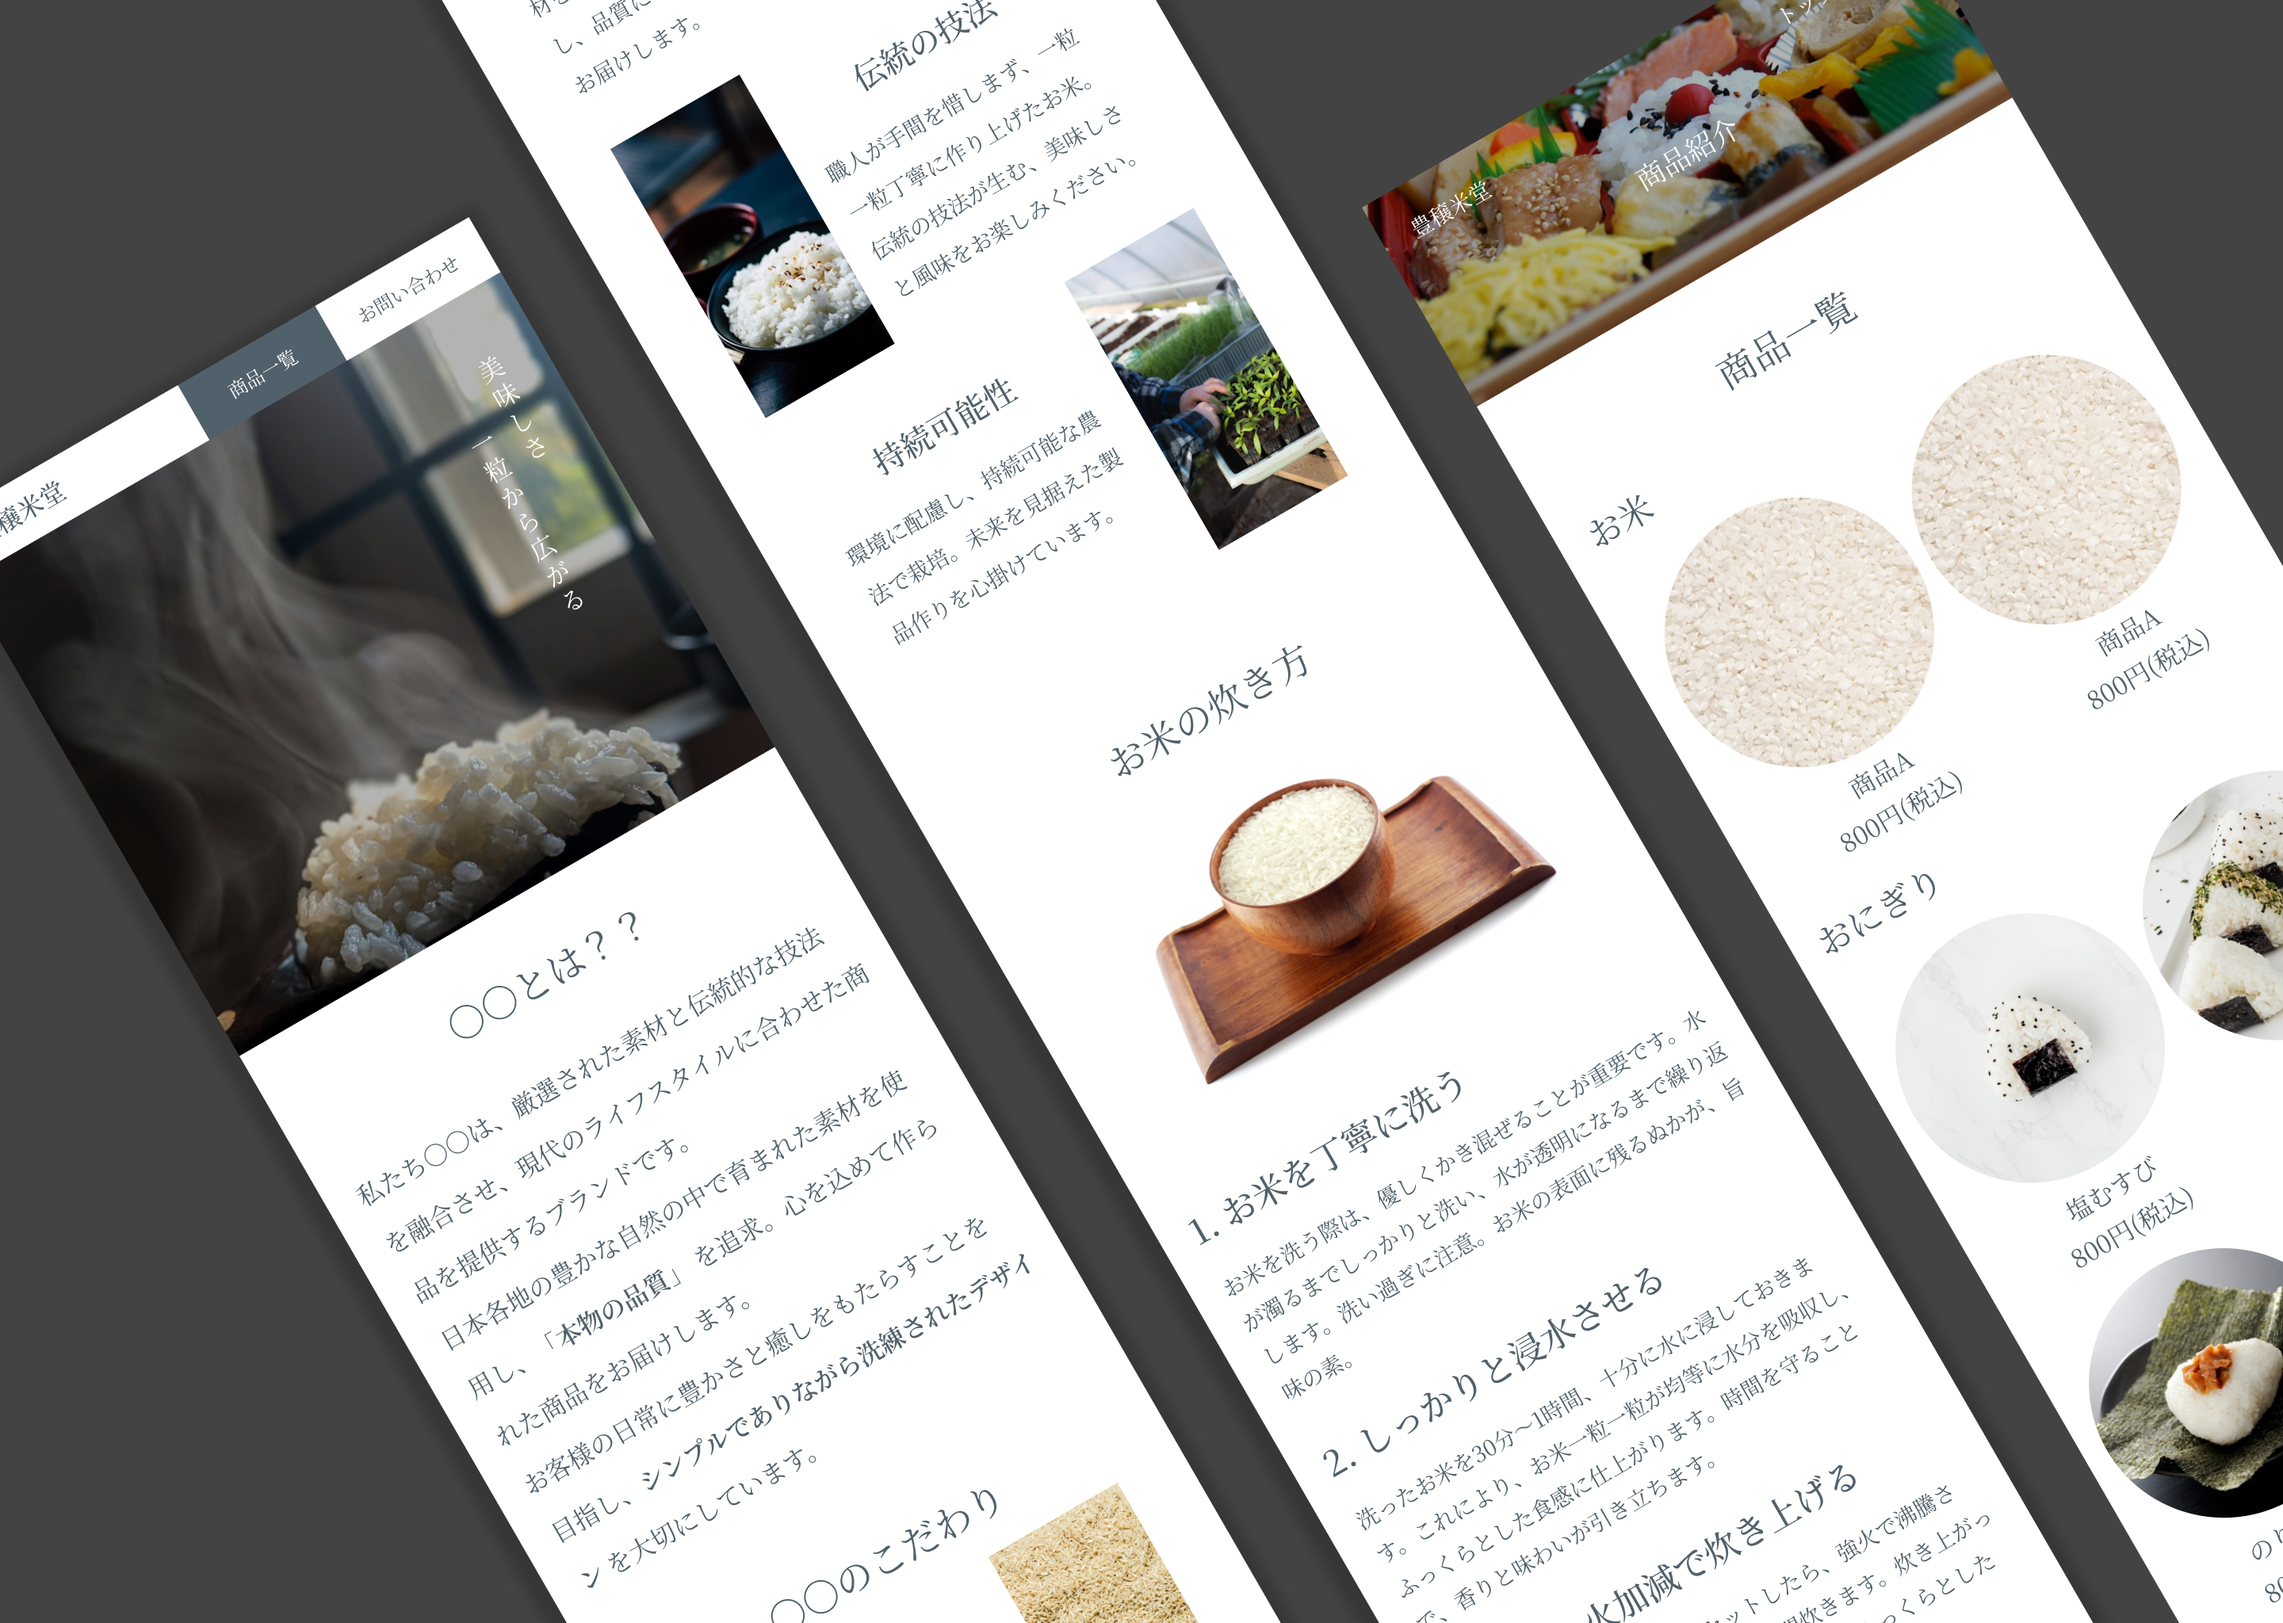
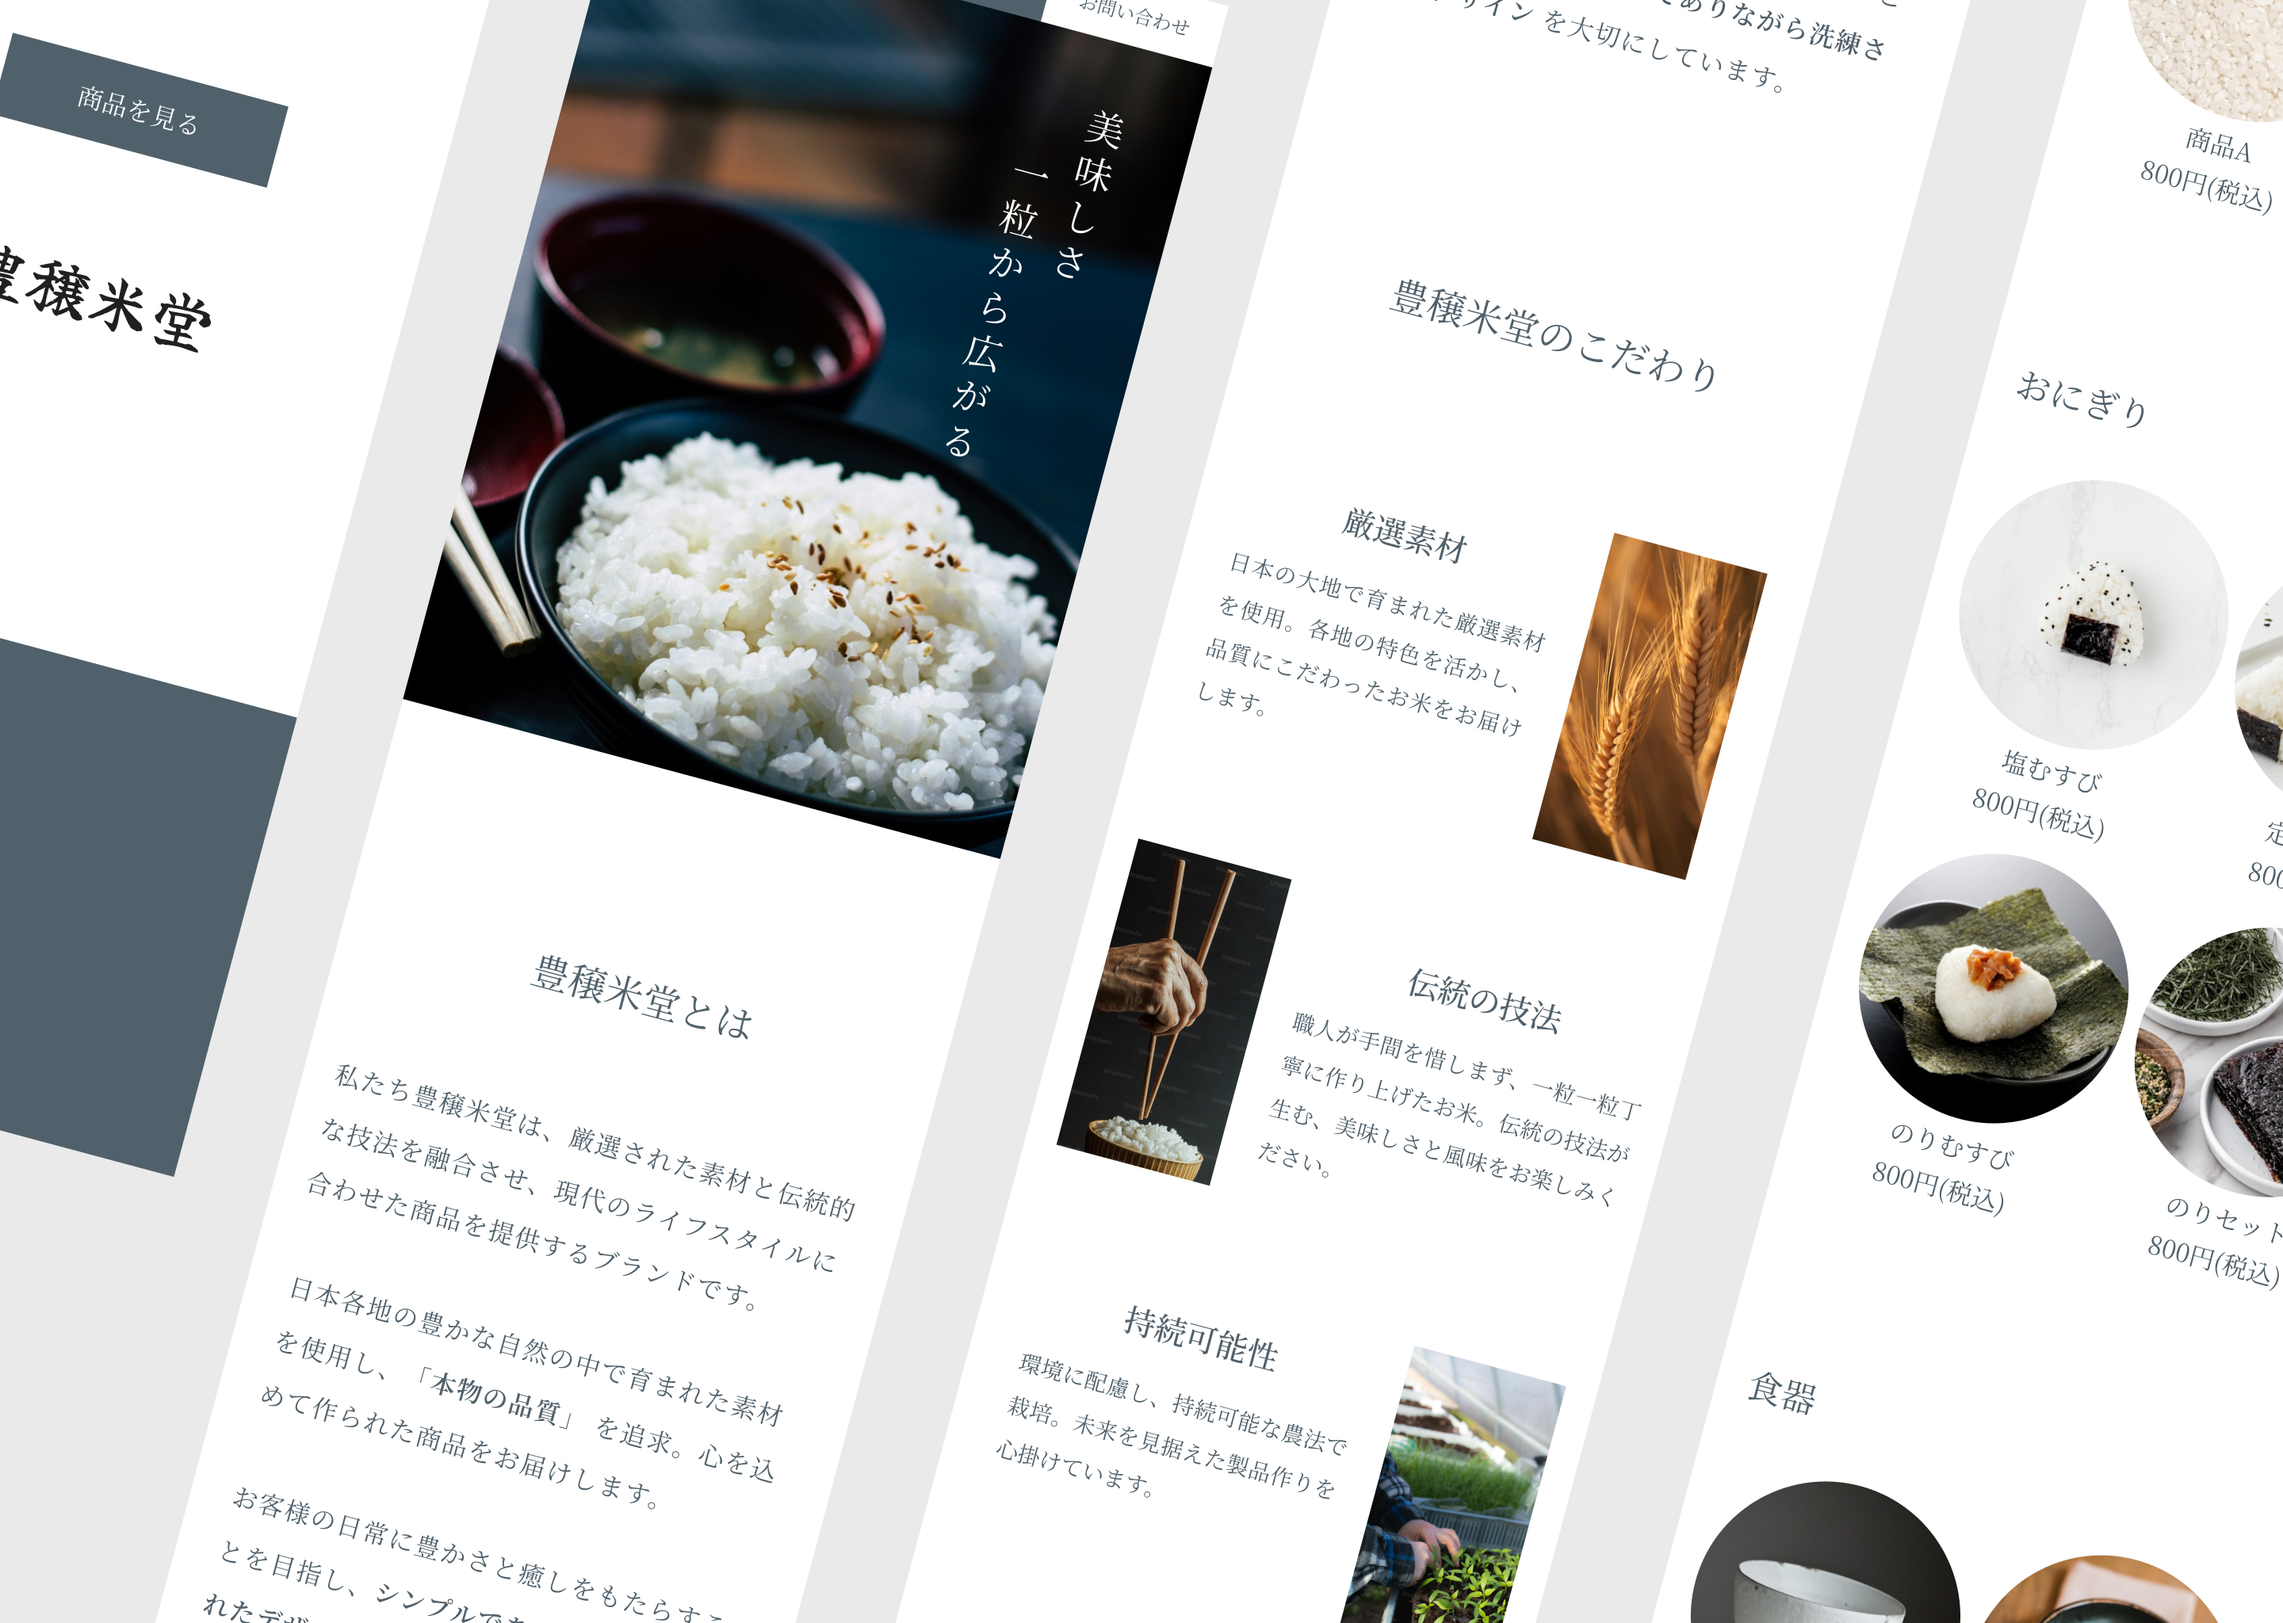
code commits

diff --git a/okome.html b/okome.html
@@ -79,16 +79,18 @@
                 <div class="contents__item">
                     <img src="img/portfolio-okome.png" alt="thumnails of the project">
                 </div>
-                <!-- <div class="contents__item">
-                    <img src="img/MobileImage-lemon.png" alt="thumnails of the project">
-                </div> -->
+                <div class="contents__item">
+                    <img src="img/MobileImage-okome.png" alt="thumnails of the project">
+                </div>
             </div>
             <div class="detail-item outline">
                 <h3 class="portfolio-detail__sub">OUTLINE</h3>
                 <div class="portfolio-detail__text">
                     <p class="portfolio-detail__text--en">
                     </p>
-                    <p class="portfolio-detail__text--ja">レモンファームを紹介するサイトを作りました。デザインを始める際に気を付けたのは白と黒でシンプルに始める、少ない装飾から始めてなるべく余計な情報を足さないこと。配色は黄色をアクセントカラーとしてフォントはNotoSansJPを使用し親近感や温かみを表現することを意識し、また余白を大きく取ってサイトのビジュアルの安定感や落ち着きを表現することも考慮しました。オリジナルで作ったロゴはシンプルかつ可愛らしい印象を与えることを目指しました。
+                    <p class="portfolio-detail__text--ja">お米屋さんを簡単に紹介するLP風Webサイトを制作しました。
+                        デザインは伝統的かつシンプルな印象を与えることを心がけ、フォントはNotoSansJP Serifを用いました。実装はスライドやスクロールアニメーションを用いてお米の暖かさや柔らかい印象を与えることを意識しました。
+                        オリジナルで制作したロゴも少しフォントのテイストを変えて老舗感が伝わることを目指しました。
                     </p>
                 </div>
             </div>

diff --git a/kaiseidev.html b/kaiseidev.html
@@ -88,8 +88,8 @@
                 <div class="portfolio-detail__text">
                     <p class="portfolio-detail__text--en">
                     </p>
-                    <p class="portfolio-detail__text--ja">自分のWeb開発、デザインサービスを紹介するサイトを制作しました。デザインはFigmaを用いて制作しサイトの印象としてはモダンかつシンプルで洗練された印象を与えることを意識し、
-                        セクションやボタンなどのUIでも角をなくすことを心がけました。また、日本だけでなく海外の方もターゲットにすることを見据えて英語のテキストも増やしています。実装ではアコーディオンや要素を取り入れ、言語変換が出来るようにもました。
+                    <p class="portfolio-detail__text--ja">自分のWeb開発、デザインサービスを紹介するサイトを制作しました。デザインはFigmaを用いて制作しモダンかつシンプルで洗練された印象を与えることを意識、
+                        セクションやボタンなどのUIでも角をなくすことを心がけました。また、日本だけでなく海外の方もターゲットにすることを見据えて英語のテキストも増やしています。実装ではアコーディオンやスクロールアニメーションを要素を取り入れたり、質問に対しては言語変換が出来るようにもしました。
                     </p>
                 </div>
             </div>

diff --git a/index.html b/index.html
@@ -87,7 +87,7 @@
                             <img src="img/portfolio-kaiseidev.png" alt="mockup">
                         </a>
                         <a class="workCases__item" href="okome.html">
-                            <img src="img/portfolio-okome.png" alt="mockup">
+                            <img src="Desktop - 25.png" alt="mockup">
                         </a>
                         <a href="myportfolio.html" class="workCases__item">
                             <img src="img/thumnails.png" alt="mockup">
